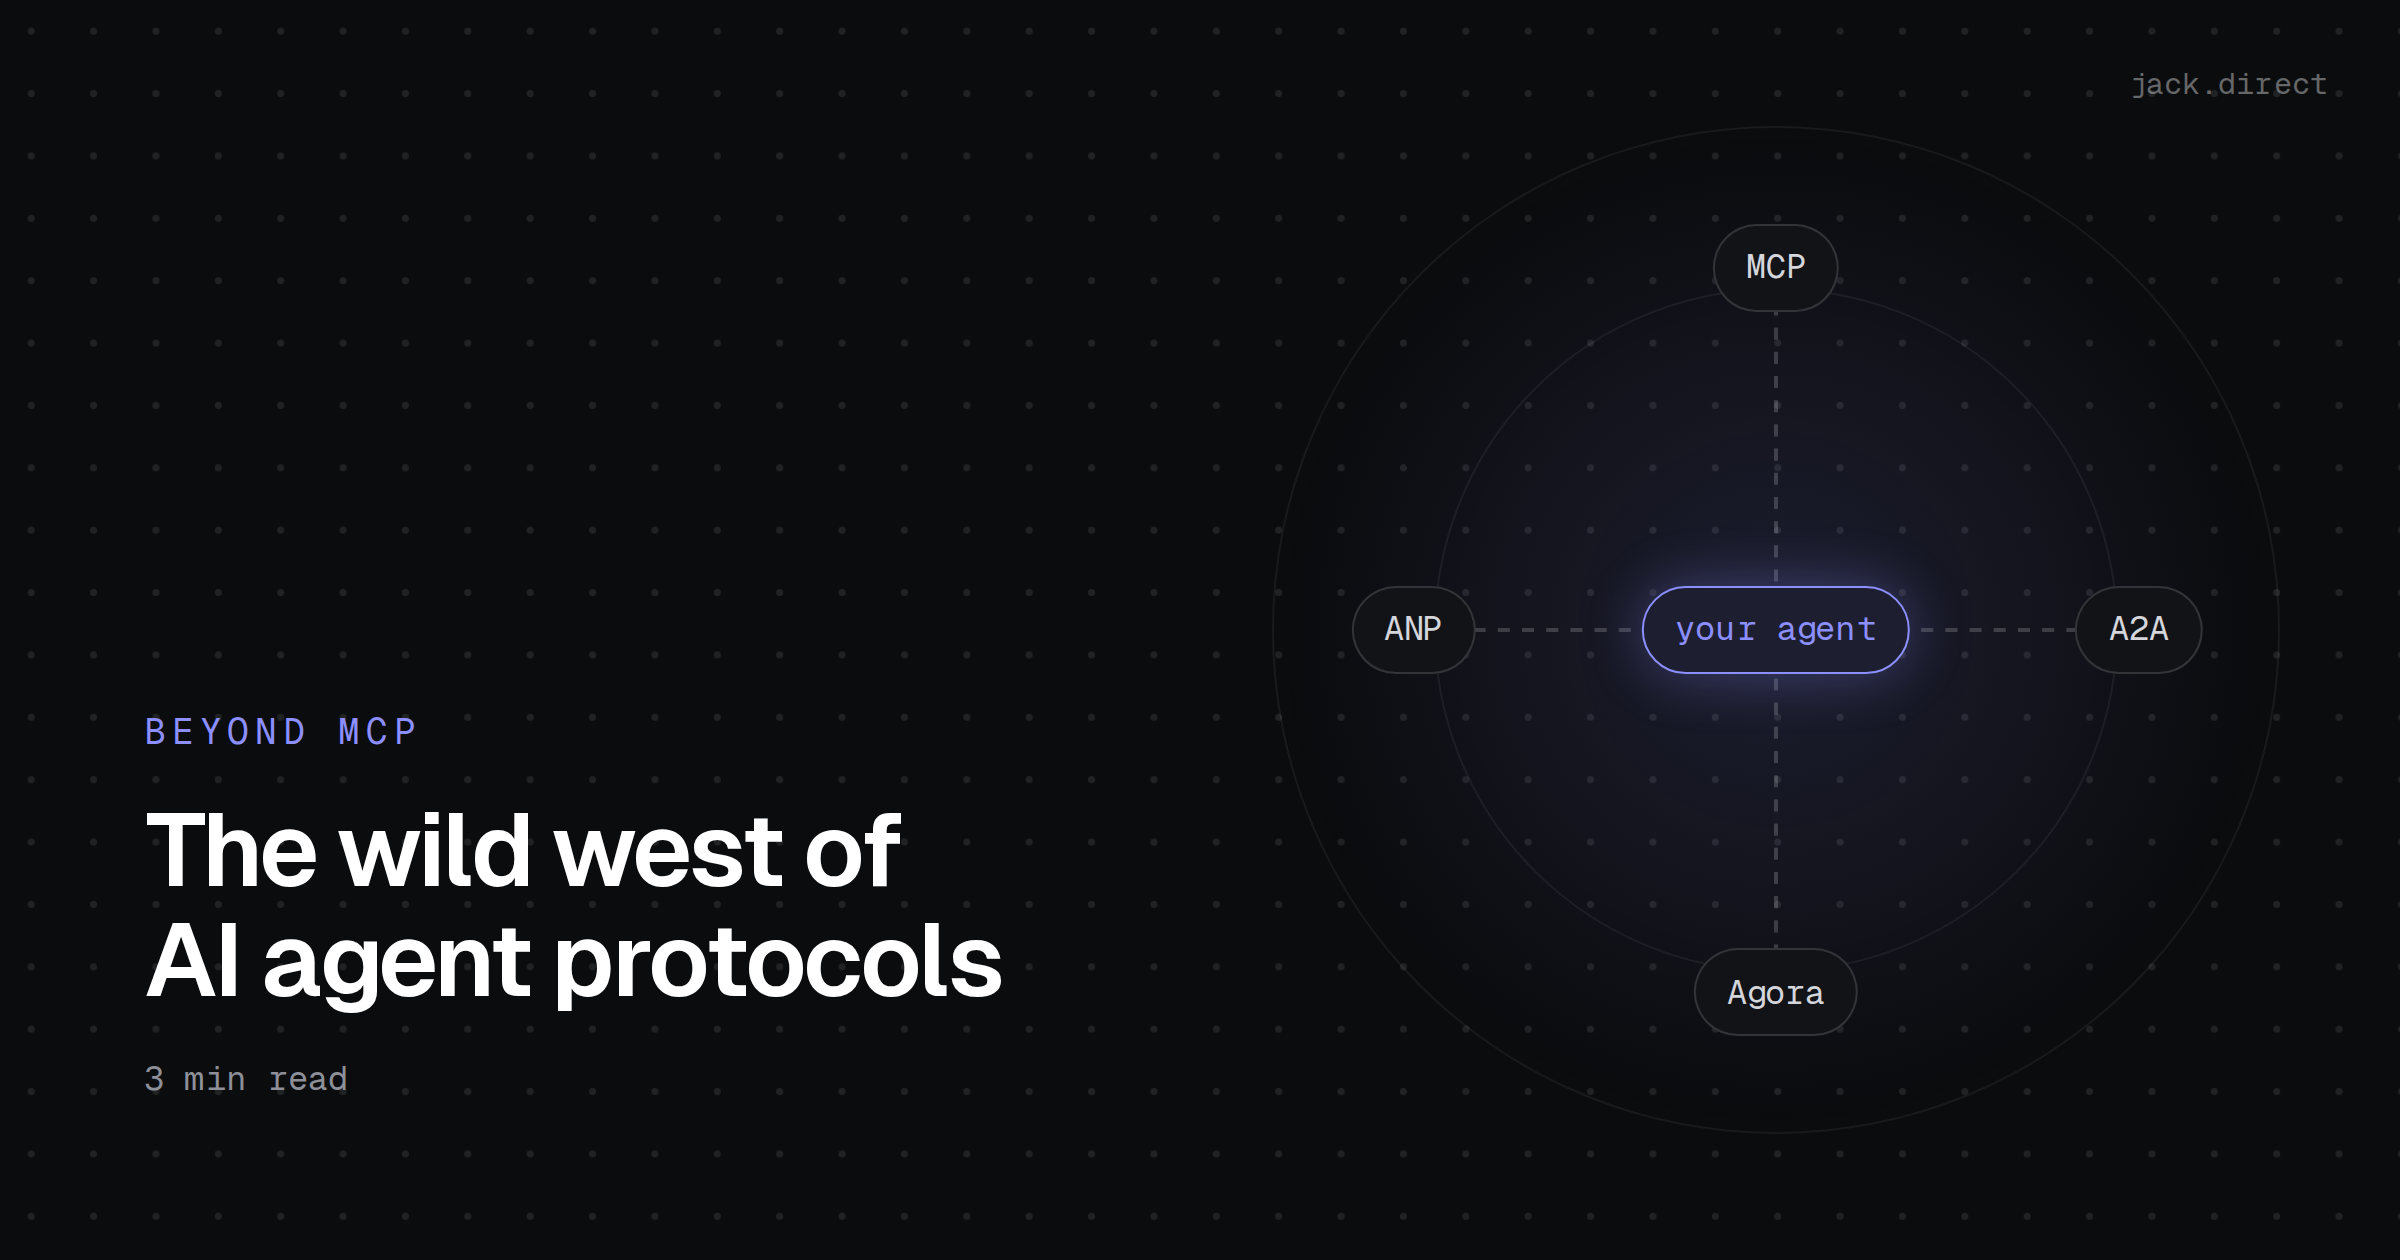
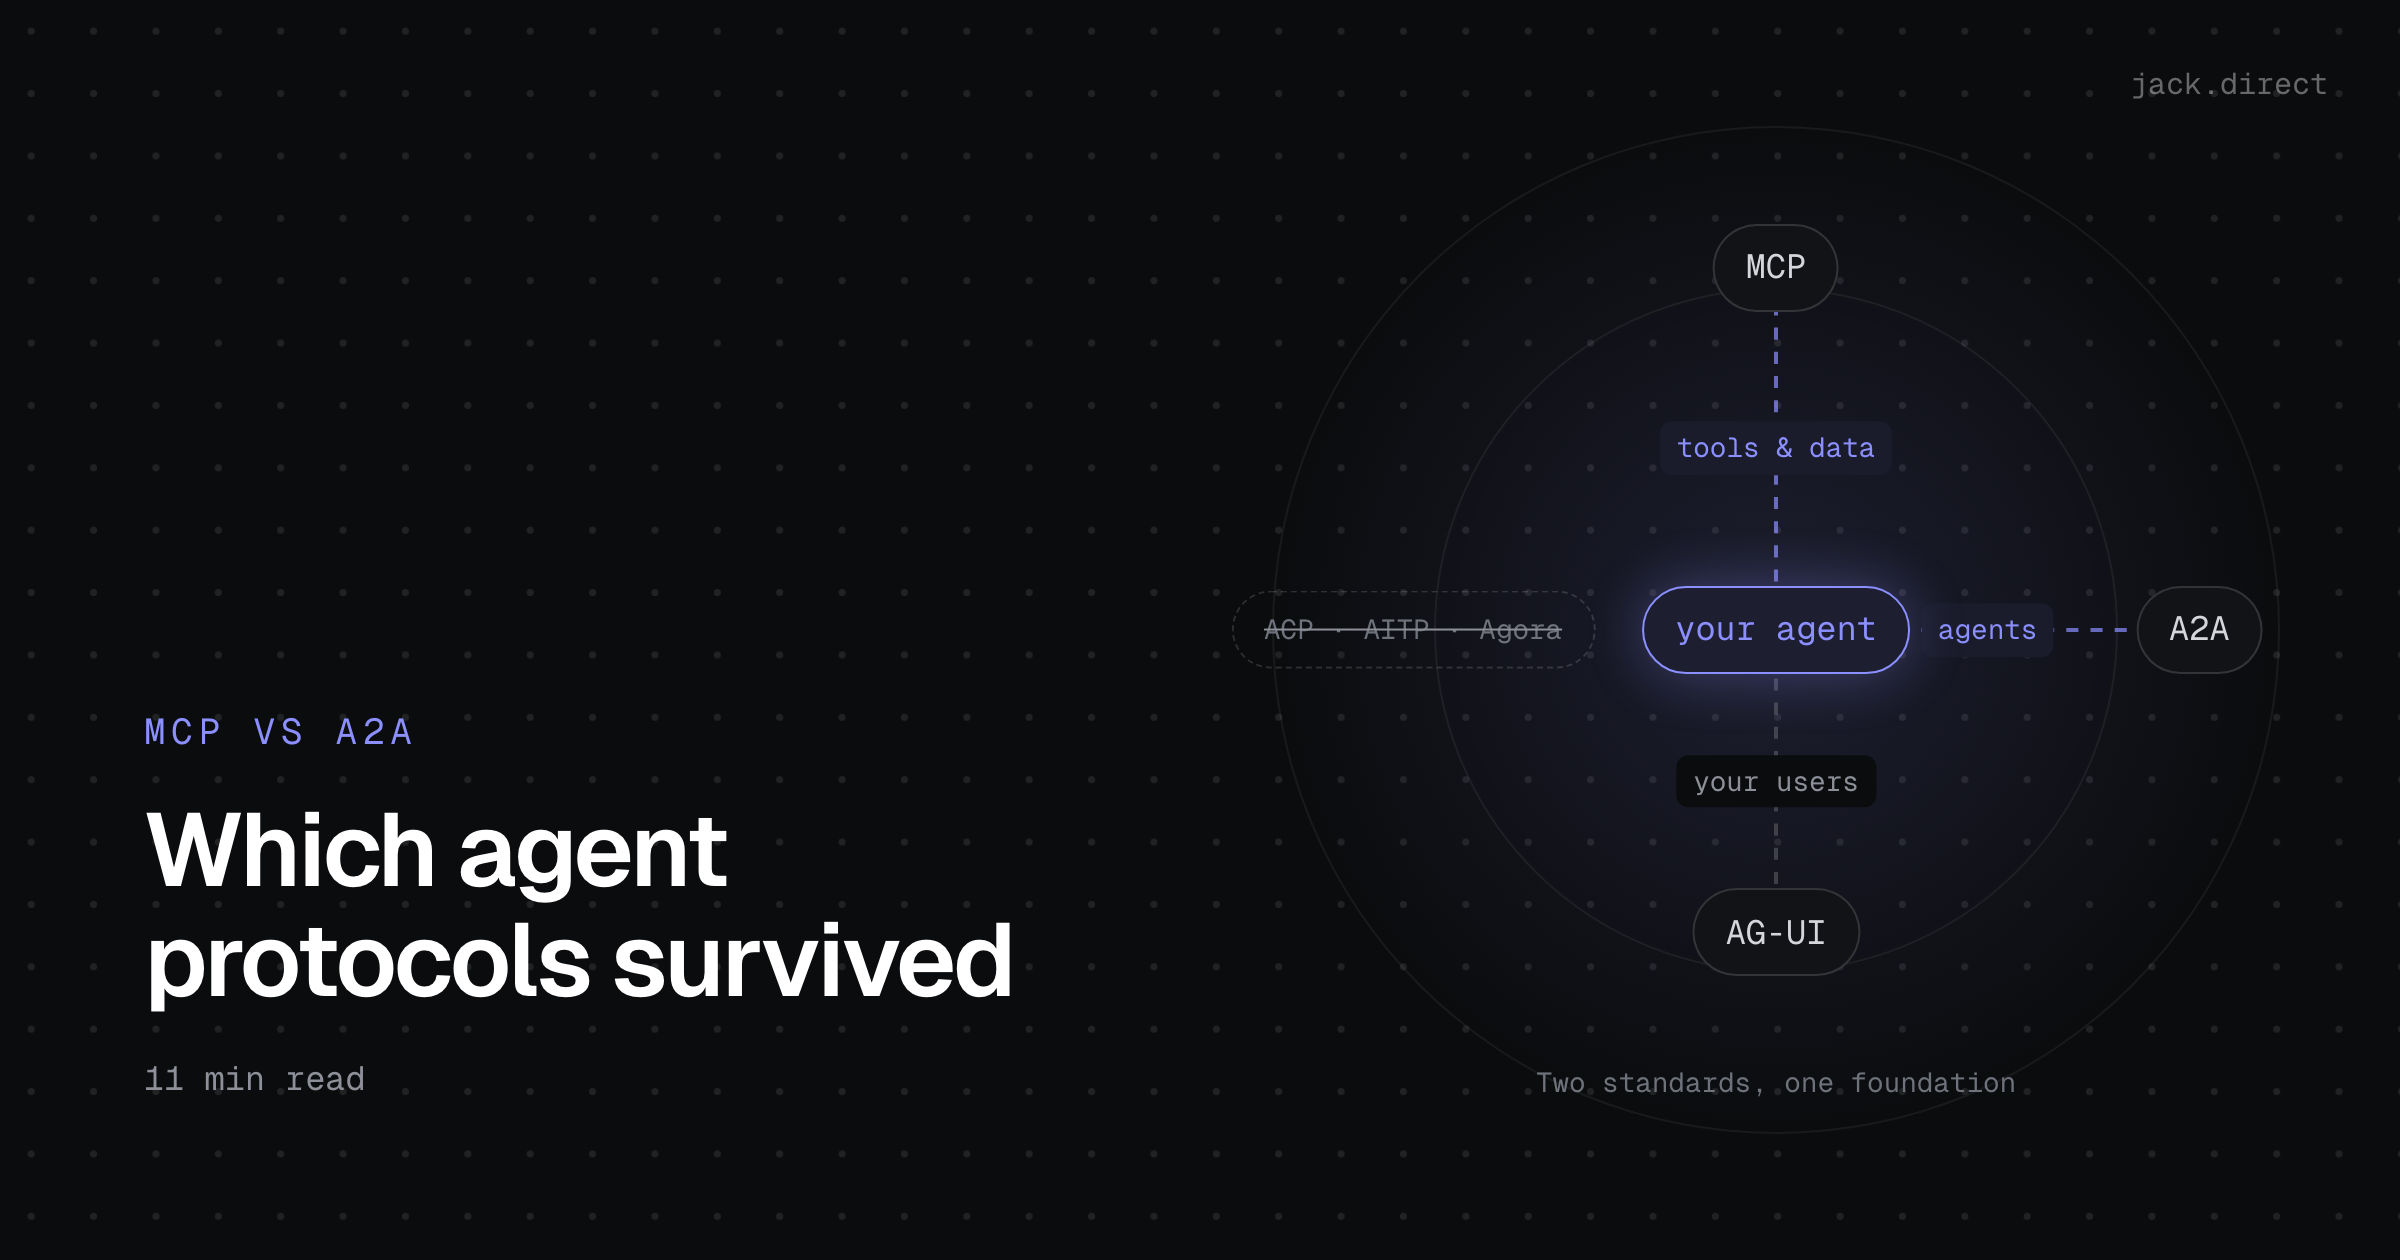
content: rewrite AI agent protocols post as MCP vs A2A status report
Verified against the MCP 2026-07-28 and A2A 1.0.1 specs, Linux Foundation
and AAIF announcements, and GitHub repo status. Fixes the AConP attribution,
drops the unsourced 40% claim, marks merged and dormant protocols, adds
AG-UI, MCP Apps, and the commerce protocols. Redraws the cover and links the
post from the hooks guide.

diff --git a/src/lib/covers.ts b/src/lib/covers.ts
@@ -137,23 +137,23 @@ export const COVERS: Record<string, CoverSpec> = {
   },
 
   'wild-west-of-ai-protocols': {
-    kicker: 'Beyond MCP',
-    short: 'The wild west of AI agent protocols',
+    kicker: 'MCP vs A2A',
+    short: 'Which agent protocols survived',
     diagram: {
       kind: 'graph',
       nodes: [
         { t: 'your agent', x: 50, y: 50, hot: true },
         { t: 'MCP', x: 50, y: 14 },
-        { t: 'A2A', x: 86, y: 50 },
-        { t: 'Agora', x: 50, y: 86 },
-        { t: 'ANP', x: 14, y: 50 },
+        { t: 'A2A', x: 92, y: 50 },
+        { t: 'AG-UI', x: 50, y: 80 },
+        { t: 'ACP · AITP · Agora', x: 14, y: 50, ghost: true },
       ],
       edges: [
-        { from: 0, to: 1 },
-        { from: 0, to: 2 },
-        { from: 0, to: 3 },
-        { from: 0, to: 4 },
+        { from: 0, to: 1, label: 'tools & data', hot: true },
+        { from: 0, to: 2, label: 'agents', hot: true },
+        { from: 0, to: 3, label: 'your users' },
       ],
+      caption: 'Two standards, one foundation',
     },
   },
 
